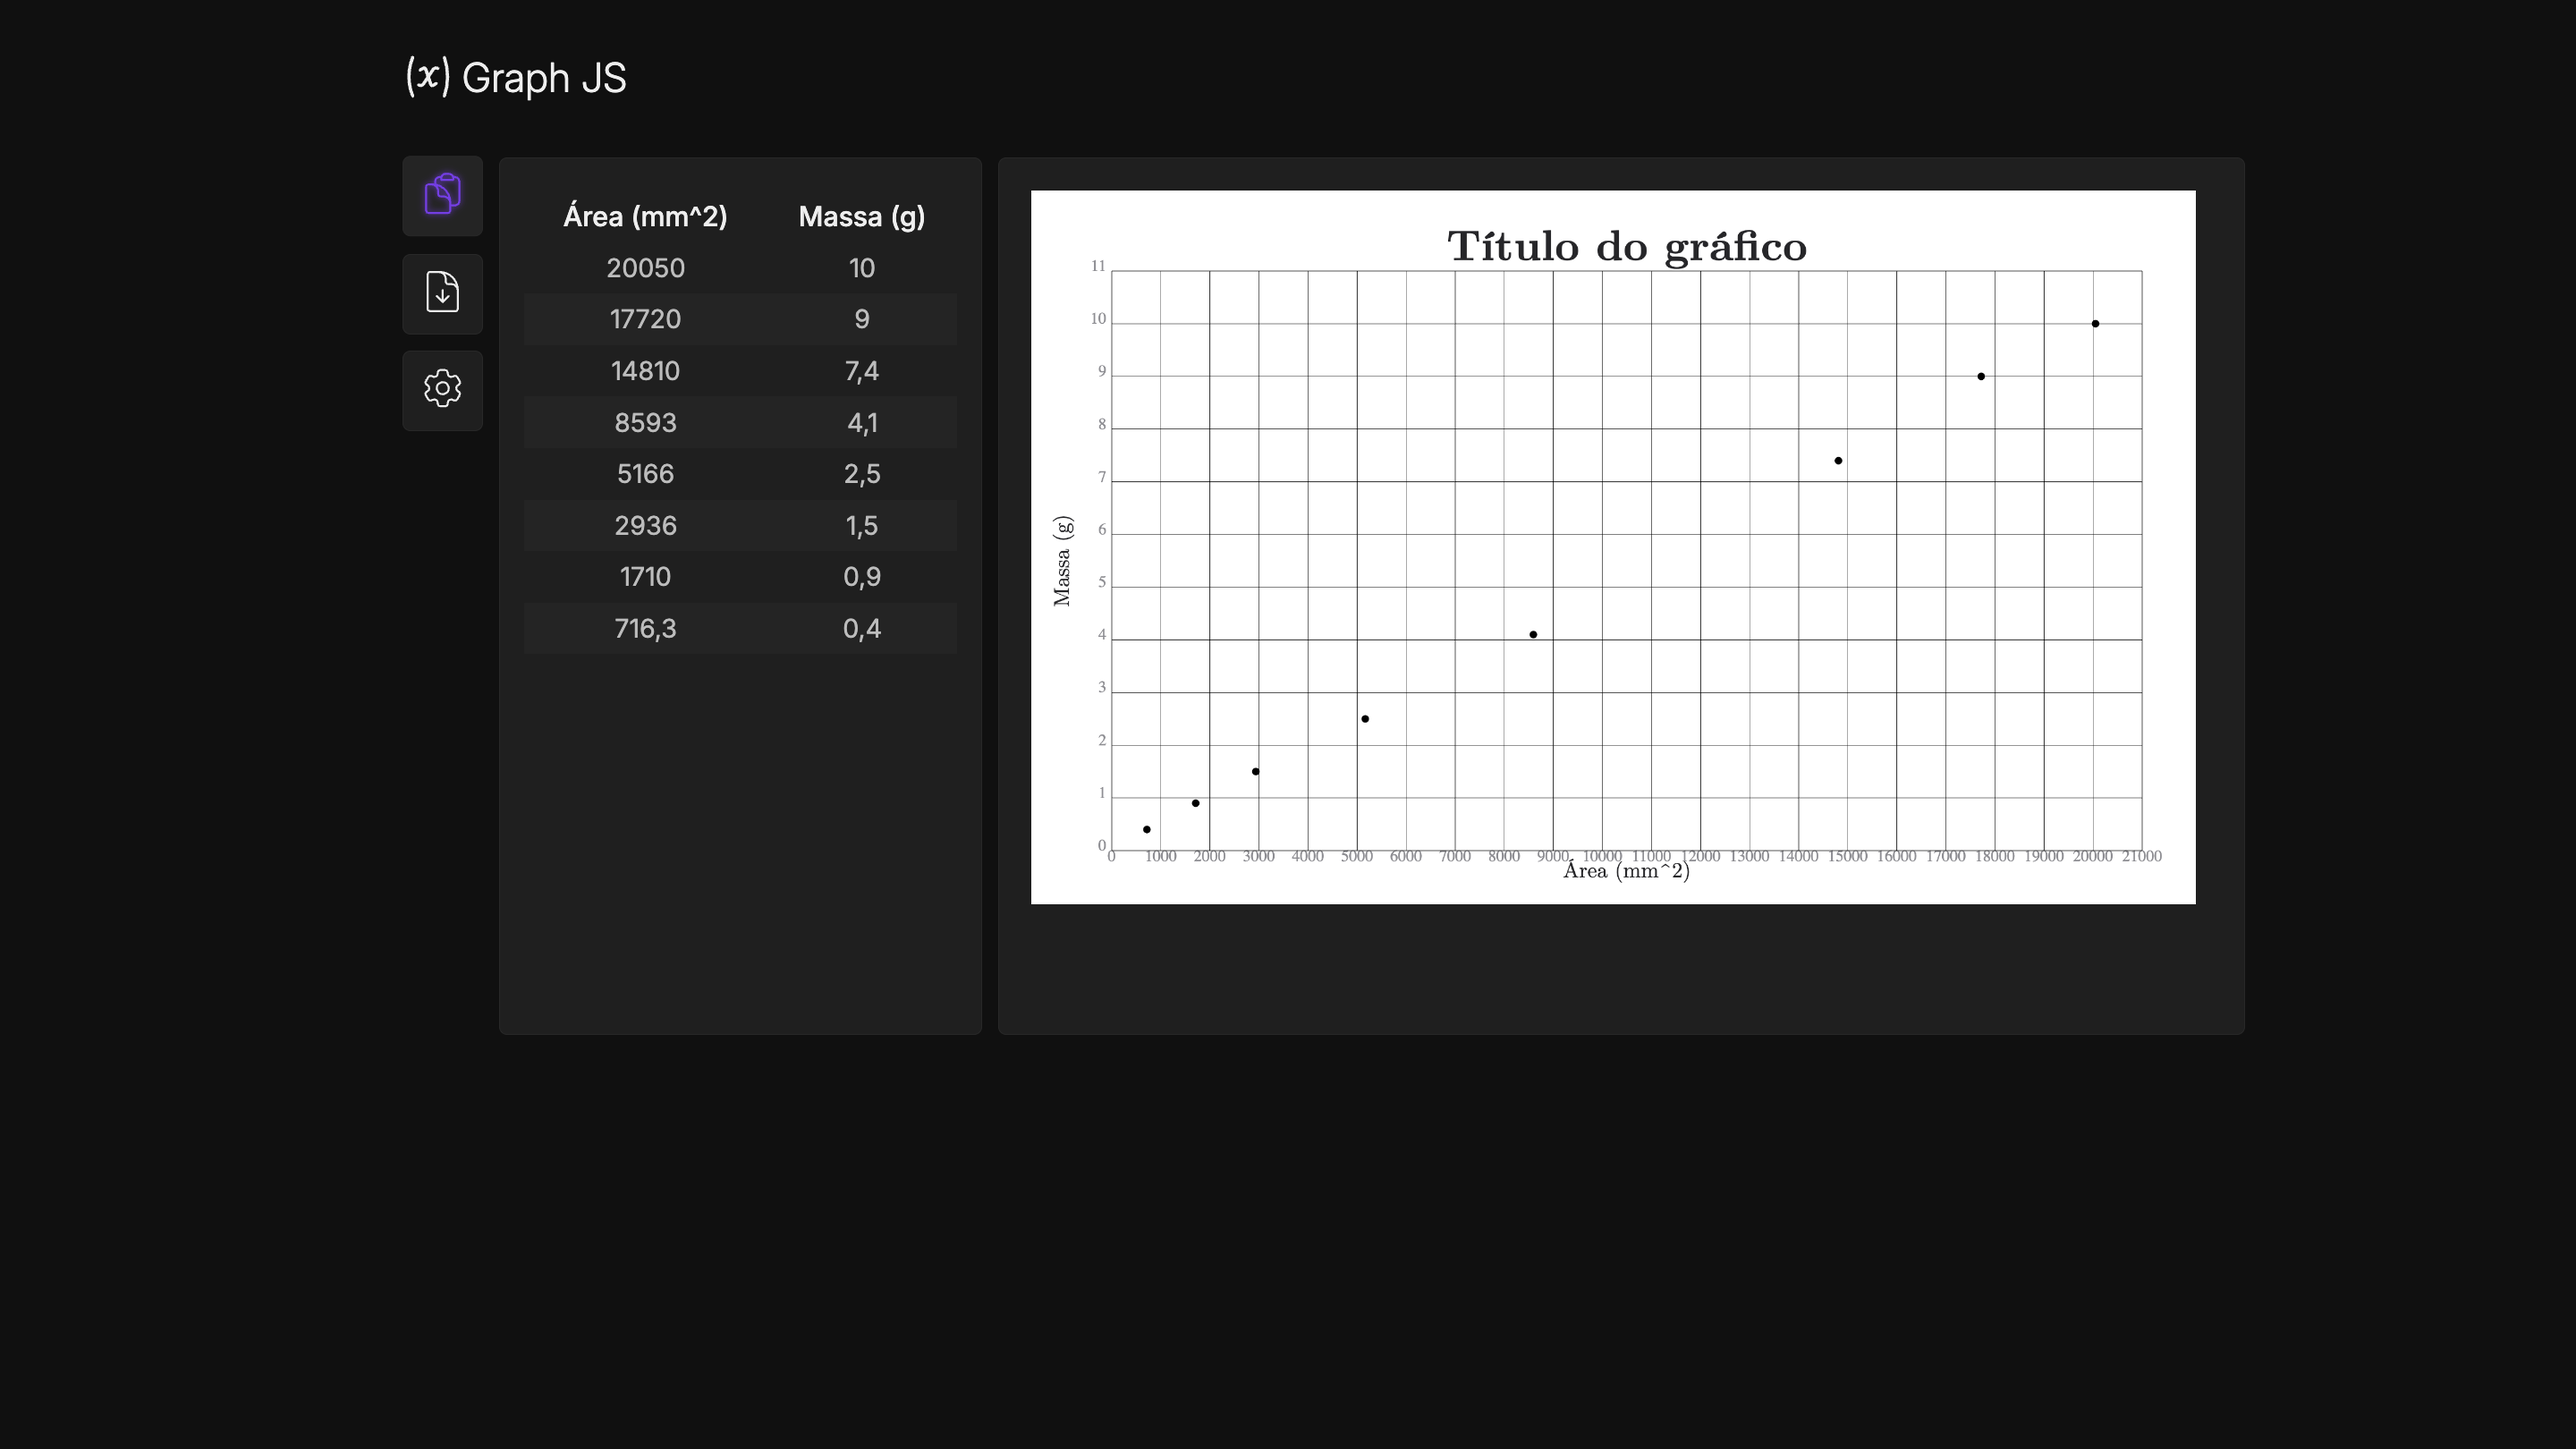
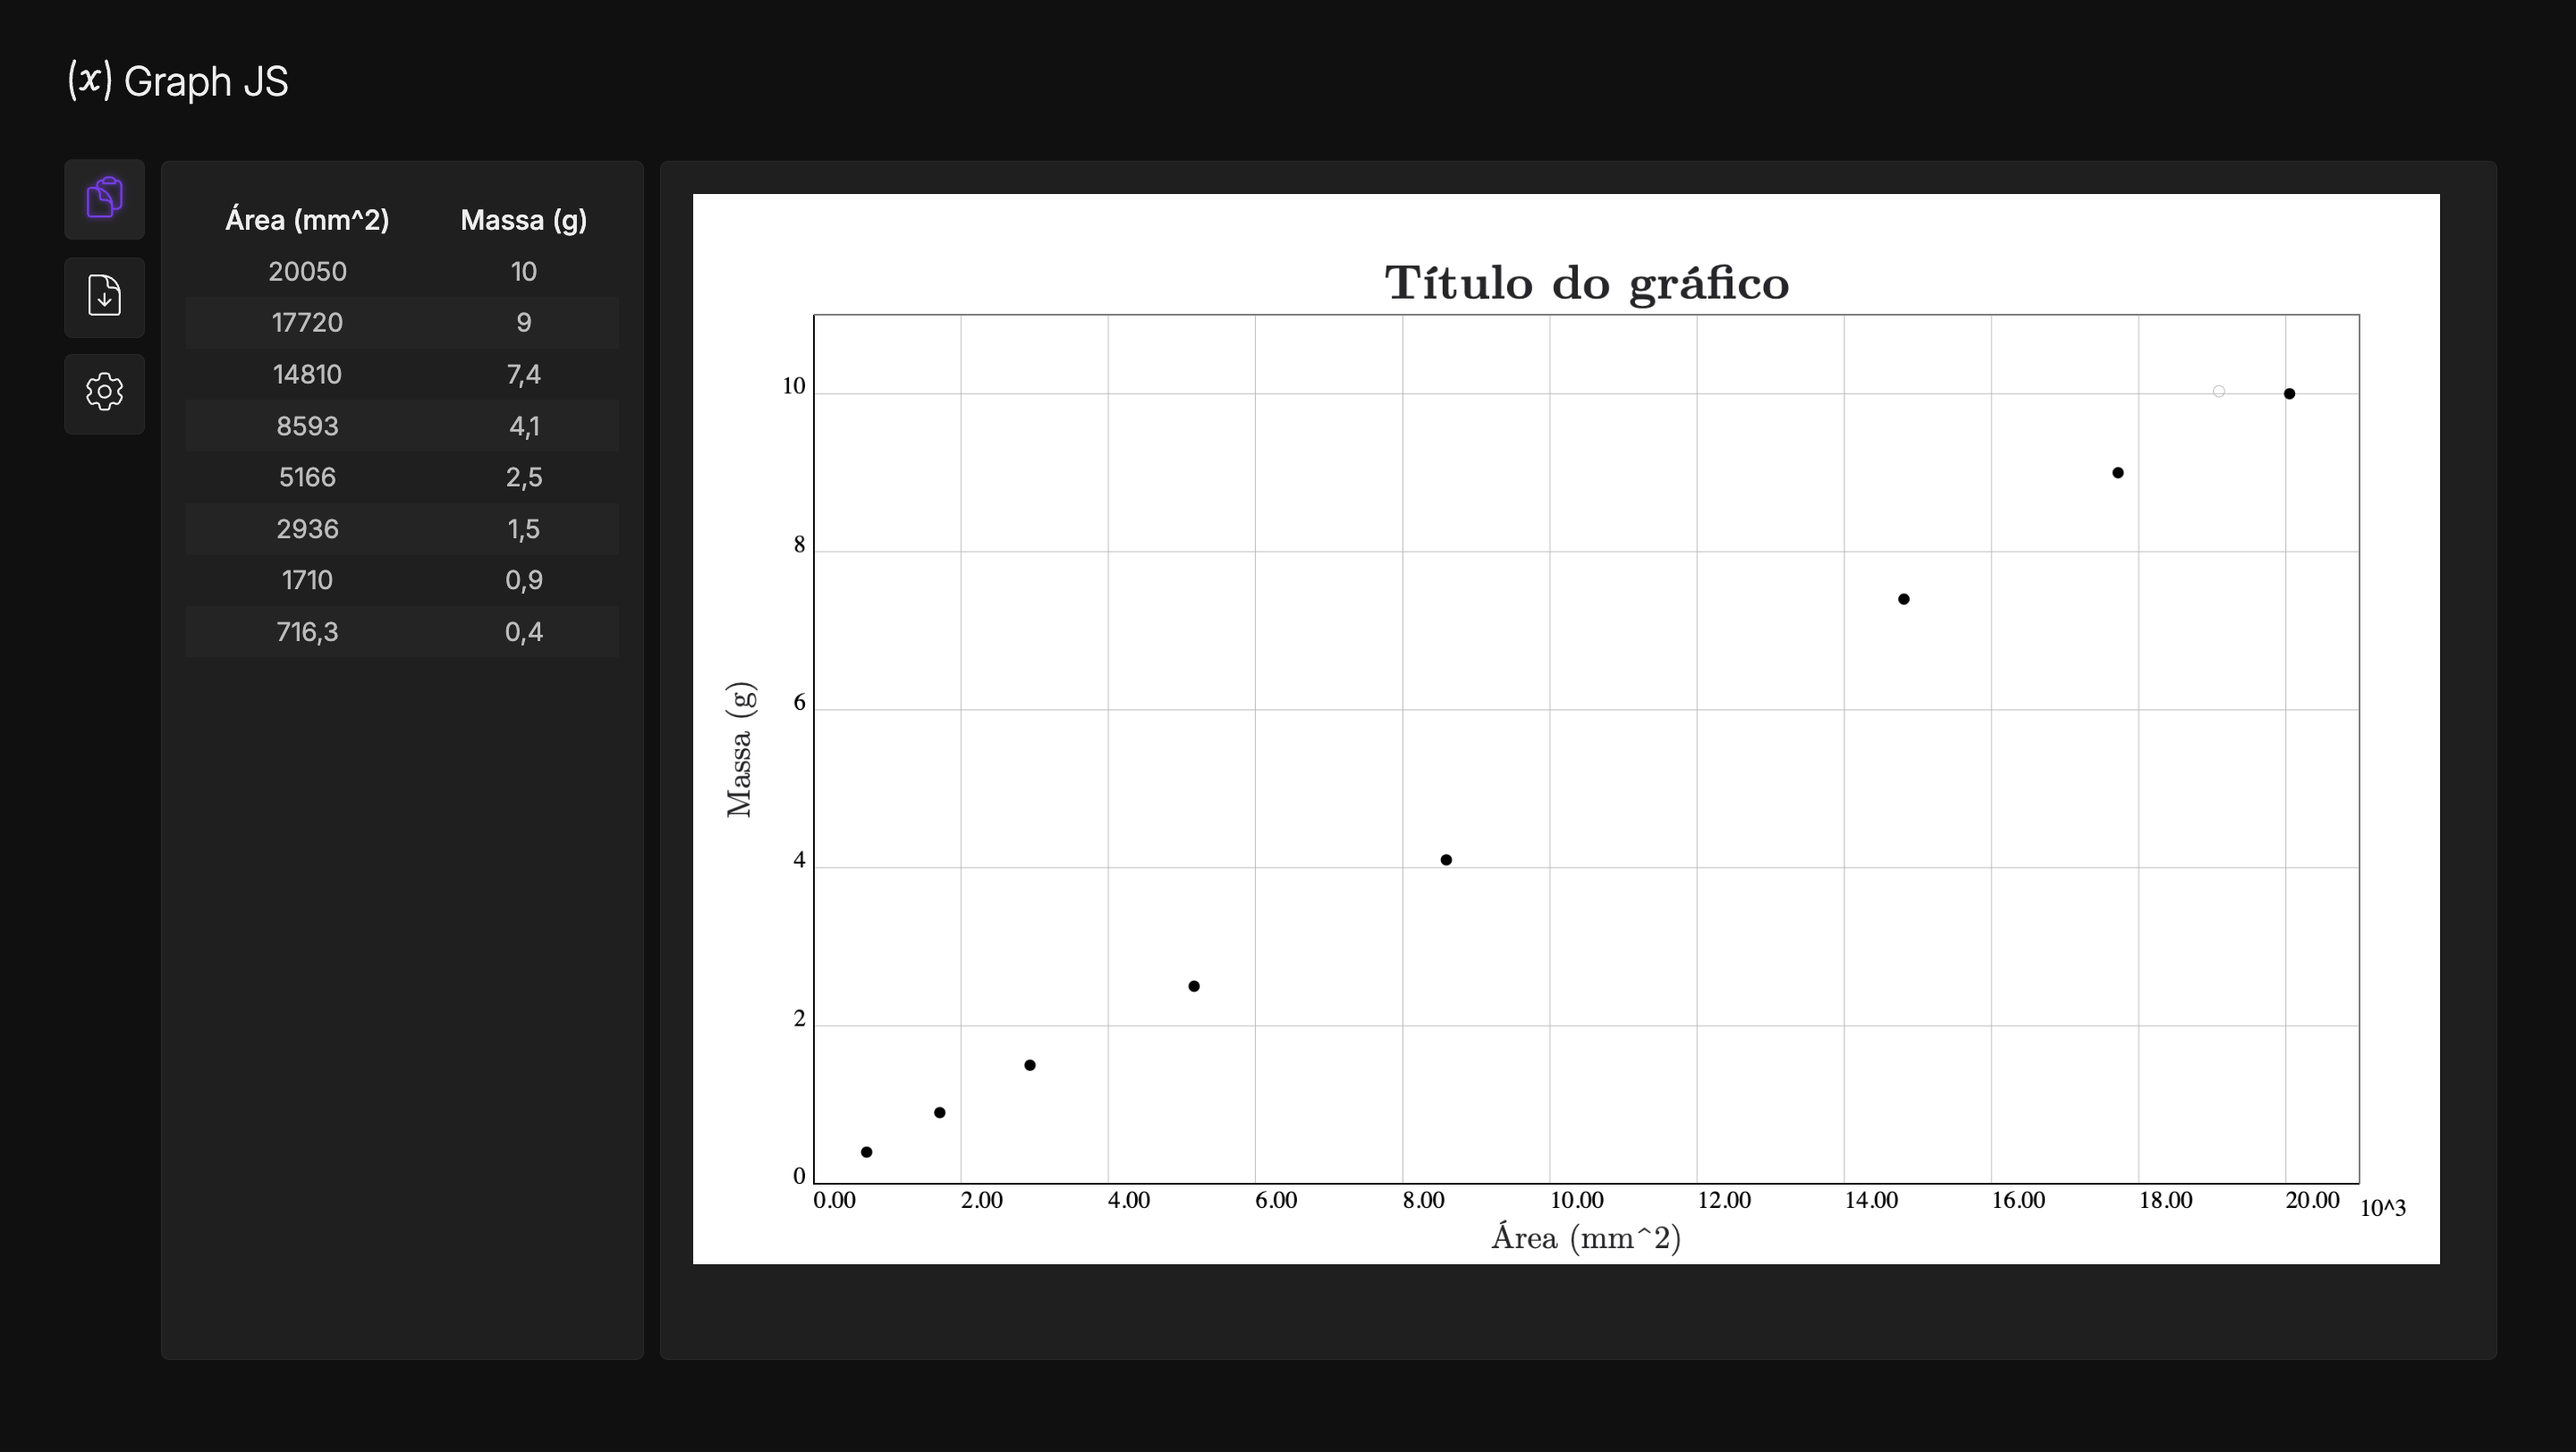
zoom ui + axis sci notation when order >= 3

diff --git a/src/graph.js b/src/graph.js
@@ -1,5 +1,7 @@
 import { points00, points01, points02  } from "./testpoints.js";
 
+// reduzir para eixos com order <= -3
+
 class Graph {
     constructor(posX, posY, w, h) {
         this.posX = posX;
@@ -13,8 +15,8 @@ class Graph {
 
         this.graphInfo = {
             title: "Título do gráfico",
-            xlabel: "Label X",
-            ylabel: "Label Y"
+            xlabel: "Eixo X",
+            ylabel: "Eixo Y"
         }
     }
 
@@ -27,17 +29,19 @@ class Graph {
     }
 
     render(ctx) {
+        ctx.fillStyle = "#ffffff";
+        ctx.fillRect(0, 0, this.width + this.posX + 100, this.height + this.posY + 100);
+
         this.getFramingBoundaries();
         this.debugFrame();
 
-        this.drawAxis(ctx);
-
         this.drawLabels(ctx);
 
-        ctx.fillStyle = "rgb(142, 142, 147)";
         ctx.font = "30px CM";
 
         this.drawGrid(ctx);
+
+        this.drawAxis(ctx);
 
         ctx.fillStyle = "rgb(0, 0, 0)";
 
@@ -45,26 +49,34 @@ class Graph {
     }
 
     drawAxis(ctx) {
-        ctx.fillStyle = "#ffffff";
-        ctx.fillRect(0, 0, this.width + this.posX + 100, this.height + this.posY + 100);
+        ctx.lineWidth = 2;
+        ctx.strokeStyle = "rgb(0, 0, 0)";
 
         ctx.beginPath();
         ctx.moveTo(this.posX, this.posY);
         ctx.lineTo(this.posX, this.posY + this.height);
         ctx.lineTo(this.posX + this.width, this.posY + this.height);
         ctx.stroke();
+
+        ctx.strokeStyle = "rgb(120, 120, 120)";
+
+        ctx.beginPath();
+        ctx.moveTo(this.posX, this.posY);
+        ctx.lineTo(this.posX + this.width, this.posY);
+        ctx.lineTo(this.posX + this.width, this.posY + this.height);
+        ctx.stroke();
     }
 
     drawLabels(ctx) {
         ctx.fillStyle = "rgb(38, 38, 41)";
-        ctx.font = "80px Computer-Modern-Bold";
+        ctx.font = "60px Computer-Modern-Bold";
         
         ctx.textAlign = "center";
-        ctx.fillText(this.graphInfo.title, (this.width/2) + this.posX, this.posY - 20);
+        ctx.fillText(this.graphInfo.title, (this.width/2) + this.posX, this.posY -20);
 
         ctx.font = "40px Computer-Modern";
 
-        ctx.fillText(this.graphInfo.xlabel, (this.width/2) + this.posX, this.posY + this.height + 50);
+        ctx.fillText(this.graphInfo.xlabel, (this.width/2) + this.posX, this.posY + this.height + 80);
 
         ctx.save();
         ctx.translate(this.posX - 80, (this.height/2) + this.posY);
@@ -106,7 +118,10 @@ class Graph {
         }   
 
         xavg = xavg / this.points.length;
-        yavg = yavg / this.points.length
+        yavg = yavg / this.points.length;
+
+        this.xavg = xavg;
+        this.yavg = yavg;
 
         this.yavg_magnitude = Math.round(Math.log10(yavg));
         this.yavg_order = Math.pow(10, this.yavg_magnitude);
@@ -128,15 +143,31 @@ class Graph {
     }
 
     drawGrid(ctx){
+        ctx.lineWidth = 1;
+        ctx.fillStyle = "rgb(0, 0, 0)";
+        ctx.strokeStyle = "rgb(180, 180, 180)";
+
         let nx = this.frameXmax - this.frameXmin;
         nx = nx / this.xavg_order;
+
+        let xmult = 1;
+        if(nx > 10) {
+            // ajustar proporcionalmente
+            xmult = 2;
+        }
+
+        ctx.textAlign = "left";
 
         this.xTileWidth = this.width / nx;
 
         console.log(nx);
         console.log(this.xTileWidth);
 
-        for(let i = 0; i <= nx; i++){
+        if (this.xavg_magnitude >= 3) {
+            ctx.fillText("10^" + this.xavg_magnitude, this.posX + this.width, this.posY + this.height + 40);
+        }
+
+        for(let i = 0; i <= nx; i+= xmult){
             let xpos = i * this.xTileWidth;
             let label = this.frameXmin + i * this.xavg_order;
 
@@ -144,8 +175,12 @@ class Graph {
             ctx.lineTo(this.posX + xpos, this.posY);
             ctx.stroke();
 
+            if (this.xavg_magnitude >= 3) {
+                label = Number.parseFloat(label / this.xavg_order).toFixed(2);
+            }
+
             label = label.toString();
-            ctx.fillText(label, this.posX + xpos, this.posY + this.height + 20);
+            ctx.fillText(label, this.posX + xpos, this.posY + this.height + 30);
         }
 
         let ny = this.frameYmax - this.frameYmin;
@@ -158,13 +193,27 @@ class Graph {
 
         ctx.textAlign = "right";
 
-        for(let i = 0; i <= ny; i++) {
+        let ymult = 1;
+        if(ny > 10) {
+            // ajustar proporcionalmente
+            ymult = 2;
+        }
+
+        if (this.yavg_magnitude >= 3) {
+            ctx.fillText("10^" + this.yavg_magnitude, this.posX - 30, this.posY - 50);
+        }
+
+        for(let i = 0; i <= ny; i+= ymult) {
             let ypos = i * this.yTileWidth;
             let label = this.frameYmin + i * this.yavg_order;
 
             ctx.moveTo(this.posX, this.posY + this.height - ypos);
             ctx.lineTo(this.posX + this.width, this.posY + this.height - ypos);
             ctx.stroke();
+
+            if (this.yavg_magnitude >= 3) {
+                label = Number.parseFloat(label / this.yavg_order).toFixed(2);
+            }
 
             label = label.toString();
             ctx.fillText(label, this.posX - 10, this.posY + this.height - ypos);

diff --git a/src/main.js b/src/main.js
@@ -1,12 +1,17 @@
 import { Graph } from "./graph.js"
 import { Canvas } from "./canvas.js"
+import { points00 } from "./testpoints.js"
 
 let graph = new Graph(150, 150, 1920, 1080);
-let canvas = new Canvas("graph", 2200, 1500, 0, 0, 3);
+let canvas = new Canvas("graph", 2200, 1400, 0, 0, 2);
 
 window.onload = () => {
     canvas.create();
     graph.render(canvas.ctx);
+
+    let arr = points00;
+    arr.unshift(["Eixo X","Eixo Y"]);
+    updateTable(arr);
 }
 
 const table = document.getElementById("data-table");

diff --git a/styles/main.css b/styles/main.css
@@ -21,7 +21,7 @@ header {
     height: 100px;
     display: flex;
     align-items: center;
-    padding: 0 250px;
+    padding: 0 40px;
     box-sizing: border-box;
 }
 
@@ -38,7 +38,7 @@ header h1 {
 
 main {
     box-sizing: border-box;
-    padding: 0 250px;
+    padding: 0 40px;
     display: flex;
 }
 
